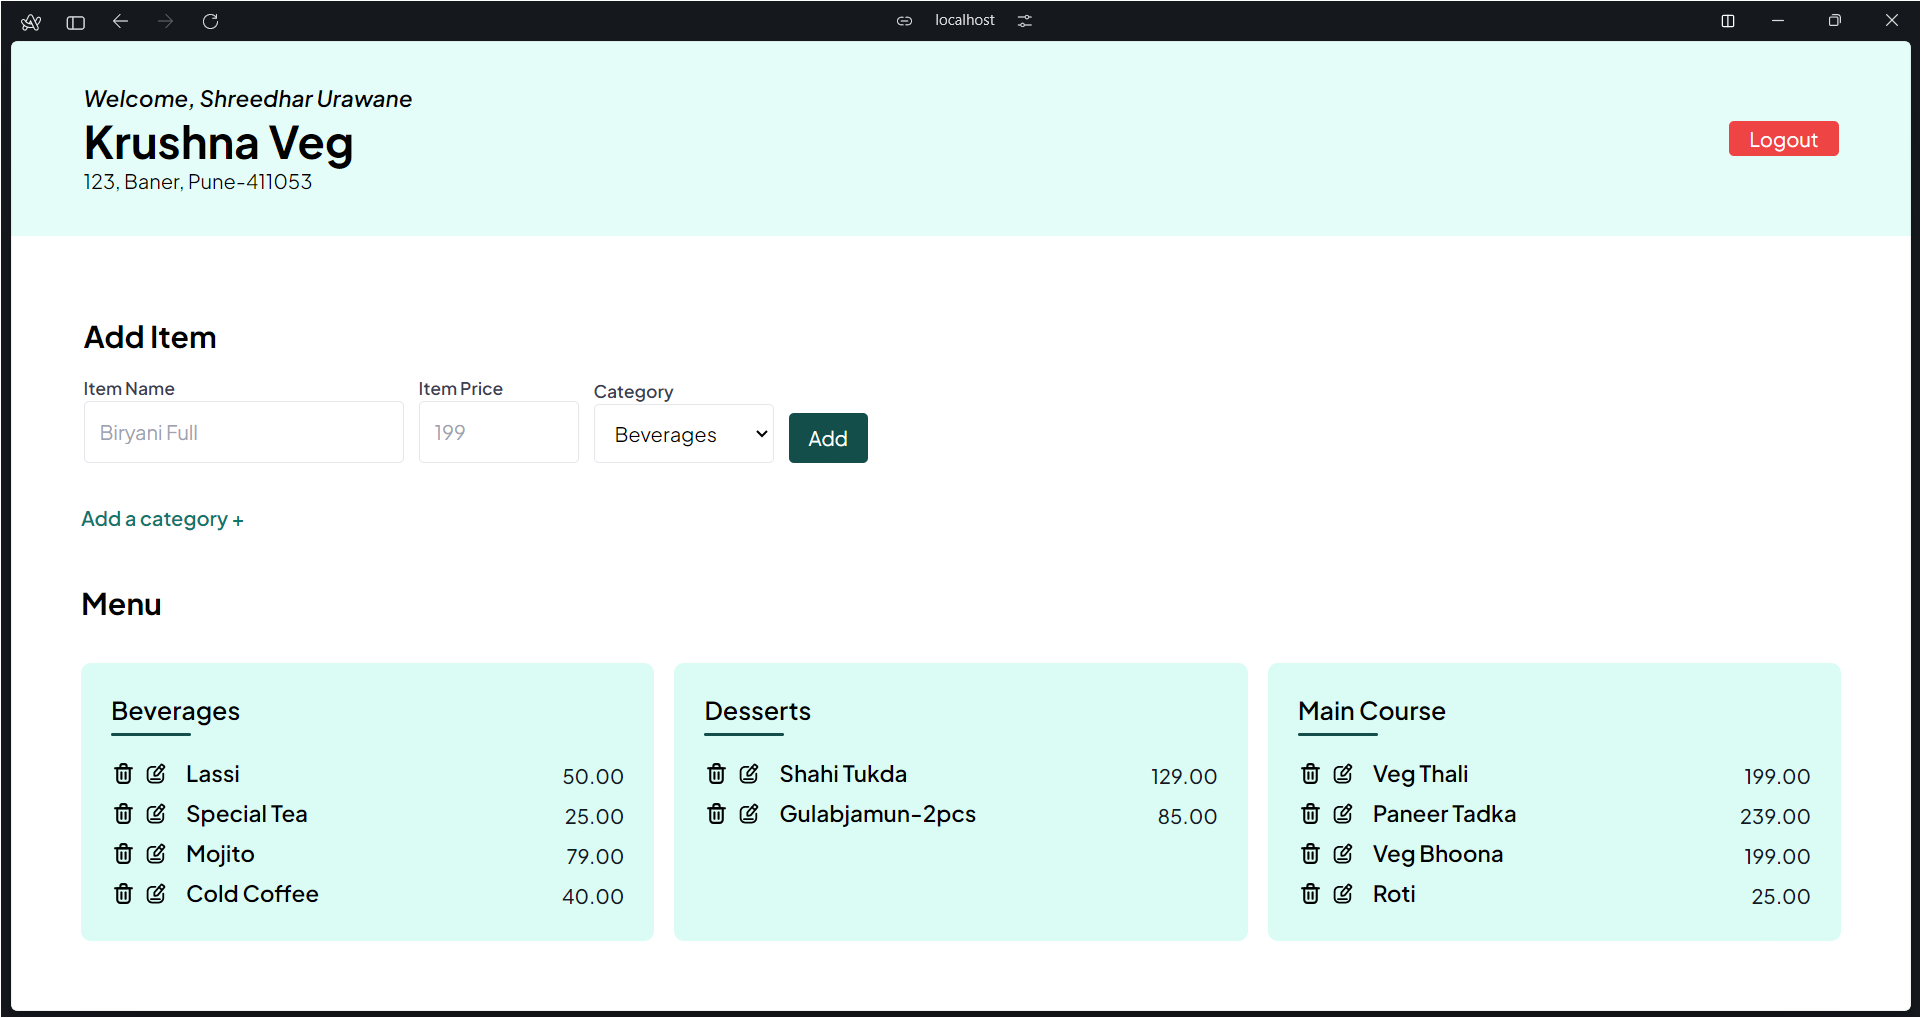
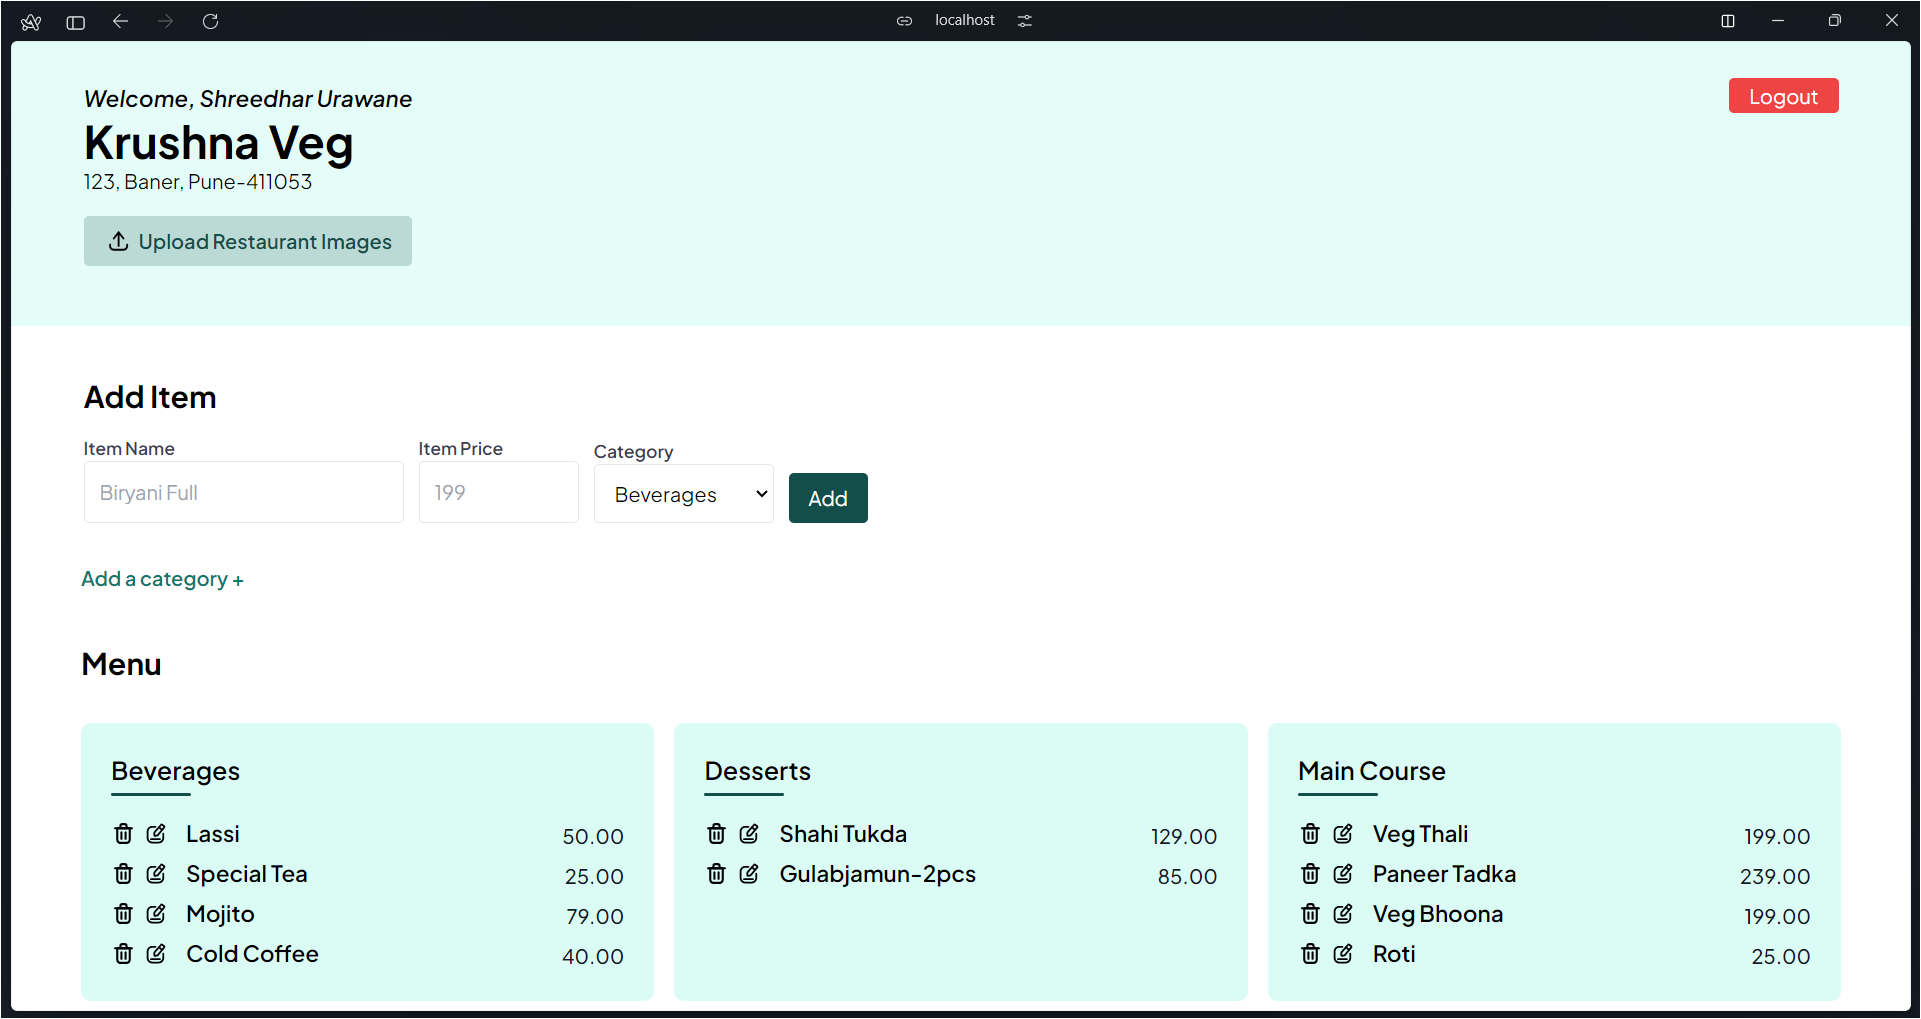
upload images functionality

diff --git a/pages/user.php b/pages/user.php
@@ -18,21 +18,7 @@
         exit;
     }
 
-    $env = parse_ini_file('../.env');
-    $PG_URL = $env['PG_URL'];
-    $PG_OPTIONS = $env['PG_OPTIONS'];
-
-    // Specify the endpoint ID in connection options
-    $connection_string = $PG_URL . $PG_OPTIONS;
-
-    // Establishing the connection
-    $PG_CONN = pg_connect($connection_string);
-
-    // Checking the connection
-    if (!$PG_CONN) {
-        // echo "Error : Unable to open database\n";
-        exit;
-    }
+    include '../config/db.php';
 
     $user_id = $_SESSION['user_id'];
 
@@ -75,12 +61,15 @@
         $menu_items[$item['category']][] = $item;
     }
 
+    // fetch images
+    $fetchImages = "SELECT * FROM images WHERE restaurant_id = $restaurant_id";
+
     ?>
 
 
     <main class="bg-teal-100/50">
-        <div class="max-w-[1500px] mx-auto px-12 py-8 flex items-center justify-between">
-            <div>
+        <div class="max-w-[1500px] mx-auto px-12 py-8 flex items-start justify-between">
+            <div class="flex flex-col">
                 <h2 class="text-lg font-semibold italic">
                     Welcome, <?php echo $user['name']; ?>
                 </h2>
@@ -92,13 +81,28 @@
                 <p>
                     <?php echo $restaurant['address']; ?>
                 </p>
-                <!-- upload restaurant images button -->
-                <a href="../handlers/upload_images.php" class="flex items-center gap-1 font-semibold text-teal-900 bg-teal-900/20 px-5 py-2 rounded mt-4">
-                    <img src="../assets/upload.svg" alt="upload" class="w-6 h-6">
-                    <span>
-                        Upload Restaurant Images
-                    </span>
-                </a>
+                <!-- upload restaurant images button call on upload -->
+                <form action="../handlers/upload_images.php" class="self-start" method="post" id="uploadForm" enctype="multipart/form-data">
+                    <input id="images" type="file" name="images[]" multiple required class="hidden">
+                    <label for="images" href="../handlers/upload_images.php" class="flex items-center gap-1 font-semibold text-teal-900 bg-teal-900/20 px-4 py-2 rounded mt-4 cursor-pointer">
+                        <img src="../assets/upload.svg" alt="upload" class="w-6 h-6">
+                        <span>
+                            Upload Restaurant Images
+                        </span>
+                    </label>
+                </form>
+
+                <!-- scroll snap for images -->
+
+                <div class="flex gap-2 mt-4 overflow-x-auto">
+                    <?php
+                    $images = pg_query($PG_CONN, $fetchImages);
+                    while ($image = pg_fetch_assoc($images)) {
+                    ?>
+                        <img src="<?php echo $image['path']; ?>" class="w-24 h-24 object-cover rounded-lg" alt="<?php echo $image['name']; ?>">
+                    <?php } ?>
+                </div>
+
             </div>
             <button>
                 <a href="../handlers/logout.php" class="text-white bg-red-500 px-4 py-[4px] rounded mt-4">Logout</a>
@@ -108,11 +112,31 @@
 
     <!-- add menu item -->
 
+    <?php
+    if (isset($_SESSION['success']) || isset($_SESSION['error'])) {
+    ?>
+        <div class="mx-12 mt-2 w-max flex items-center gap-1">
+            <!-- remove session error/success on click -->
+
+            <?php
+            if (isset($_SESSION['success'])) {
+                echo "<p class='text-green-800 bg-green-600/20 rounded px-3 py-2 font-semibold'>" . $_SESSION['success'] . "</p>";
+                unset($_SESSION['success']);
+            } else {
+                echo "<p class='text-red-800 bg-green-600/20 rounded px-3 py-2 font-semibold'>" . $_SESSION['error'] . "</p>";
+                unset($_SESSION['error']);
+            }
+            ?>
+        </div>
+    <?php
+    }
+    ?>
+
     <form action="../handlers/add_item.php" class="max-w-[1500px] mx-auto px-12 py-8" method="POST">
 
         <!-- form to add a new items with a dropdown to select category -->
 
-        <div class="mt-8">
+        <div class="mt-2">
             <h2 class="text-2xl font-bold">Add Item</h2>
             <div class="flex flex-wrap gap-3 mt-4 items-end">
                 <div>
@@ -141,23 +165,6 @@
 
     <!-- add a category small button -->
 
-    <?php
-    if (isset($_SESSION['success']) || isset($_SESSION['error'])) {
-    ?>
-        <div class="mx-14 mt-2">
-            <?php
-            if (isset($_SESSION['success'])) {
-                echo "<p class='text-green-500'>" . $_SESSION['success'] . "</p>";
-                unset($_SESSION['success']);
-            } else {
-                echo "<p class='text-red-500'>" . $_SESSION['error'] . "</p>";
-                unset($_SESSION['error']);
-            }
-            ?>
-        </div>
-    <?php
-    }
-    ?>
     <div id="category-box" class="h-[2rem] overflow-y-hidden transition-all">
 
         <button onclick="handleShowCategory()" class="mx-14 text-teal-700 font-semibold">Add a category +</button>
@@ -283,6 +290,9 @@
                     });
             }
         }
+        document.getElementById('images').addEventListener('change', function() {
+            document.getElementById('uploadForm').submit();
+        });
     </script>
 
 

diff --git a/handlers/upload_images.php b/handlers/upload_images.php
@@ -1,1 +1,67 @@
 <!-- handle multiple images uploading -->
+
+<?php
+session_start();
+include '../config/db.php';
+
+if ($_SERVER["REQUEST_METHOD"] == "POST") {
+    if ($_SESSION['restaurant_id']) {
+
+        echo "alert('inside upload_images.php')";
+
+        $restaurant_id = $_SESSION['restaurant_id'];
+        $images = $_FILES["images"];
+
+        $image_names = [];
+        $image_paths = [];
+
+        foreach ($images["name"] as $key => $image_name) {
+            $image_tmp_name = $images["tmp_name"][$key];
+            $image_path = "../uploads/" . $image_name;
+
+            if (move_uploaded_file($image_tmp_name, $image_path)) {
+                $image_names[] = $image_name;
+                $image_paths[] = $image_path;
+            }
+        }
+
+        if (count($image_names) > 0) {
+            $insert_images_query = "INSERT INTO images (name, path, restaurant_id) VALUES ";
+            $values = [];
+
+            foreach ($image_names as $key => $image_name) {
+                $values[] = "('$image_name', '$image_paths[$key]', $restaurant_id)";
+            }
+
+            $insert_images_query .= implode(", ", $values);
+
+            $insert_images_result = pg_query($PG_CONN, $insert_images_query);
+
+            if ($insert_images_result) {
+                $_SESSION['success'] = "Images uploaded successfully";
+                header("Location: ../pages/user.php");
+                exit;
+            } else {
+                $_SESSION['error'] = "Error: Unable to upload images";
+                echo "alert('Error: Unable to upload images')";
+                header("Location: ../pages/user.php");
+                exit;
+            }
+        } else {
+            $_SESSION['error'] = "Error: No images uploaded";
+            echo "alert('Error: No images uploaded')";
+            header("Location: ../pages/user.php");
+            exit;
+        }
+    } else {
+        $_SESSION['error'] = "Error: Invalid request";
+        echo "alert('Error: Invalid request')";
+        header("Location: ../pages/user.php");
+        exit;
+    }
+} else {
+    $_SESSION['error'] = "Error: Invalid request method";
+    echo "alert('Error: Invalid request method')";
+    header("Location: ../pages/user.php");
+    exit;
+}
